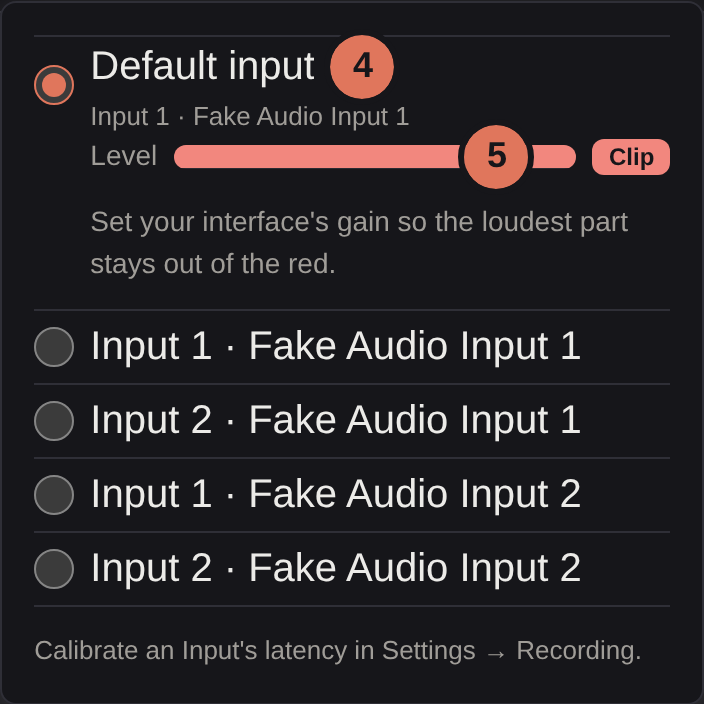
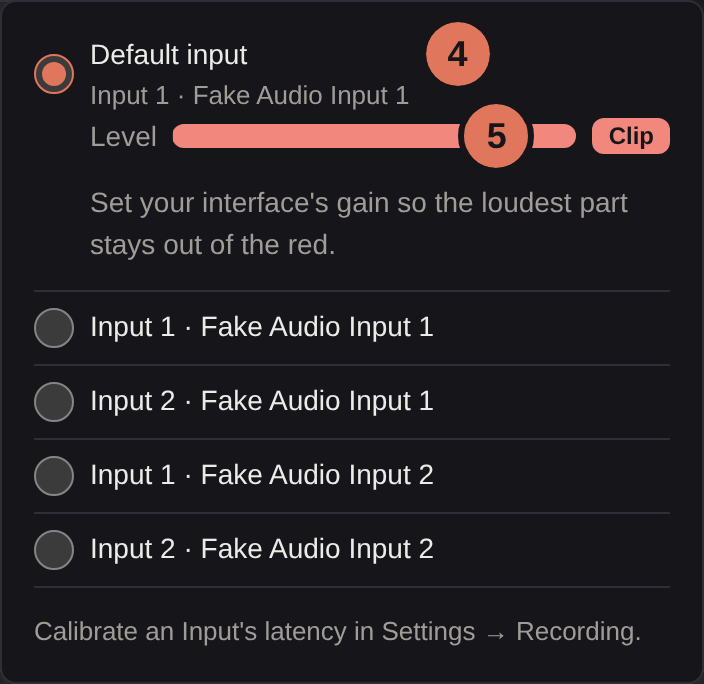
Drop the divider above the first Input, and set Inputs' names a size smaller
In the mic popover and Settings → Recording, the list of Inputs no
longer opens with a divider under the popover's edge or the heading,
and the names take --text-md, as lists do. The labelled input picker
screenshot is retaken, its 4 moved past the device's name, which it
would cover now the rows are tighter.

Closes #914

diff --git a/web/src/lib/InputPicker.svelte b/web/src/lib/InputPicker.svelte
@@ -170,7 +170,6 @@
   ul {
     margin: 0;
     padding: 0;
-    border-top: 1px solid var(--border);
     list-style: none;
   }
   li {
@@ -182,6 +181,7 @@
   .name {
     flex: 1;
     min-width: 0;
+    font-size: var(--text-md);
   }
   .meter {
     /* Lined up with the name, past the radio. */

diff --git a/web/src/lib/InputList.svelte b/web/src/lib/InputList.svelte
@@ -160,7 +160,6 @@
   ul {
     margin: 0;
     padding: 0;
-    border-top: 1px solid var(--border);
     list-style: none;
   }
   li {
@@ -179,6 +178,7 @@
   .name {
     flex: 1;
     min-width: 0;
+    font-size: var(--text-md);
   }
   .status,
   .badge {
